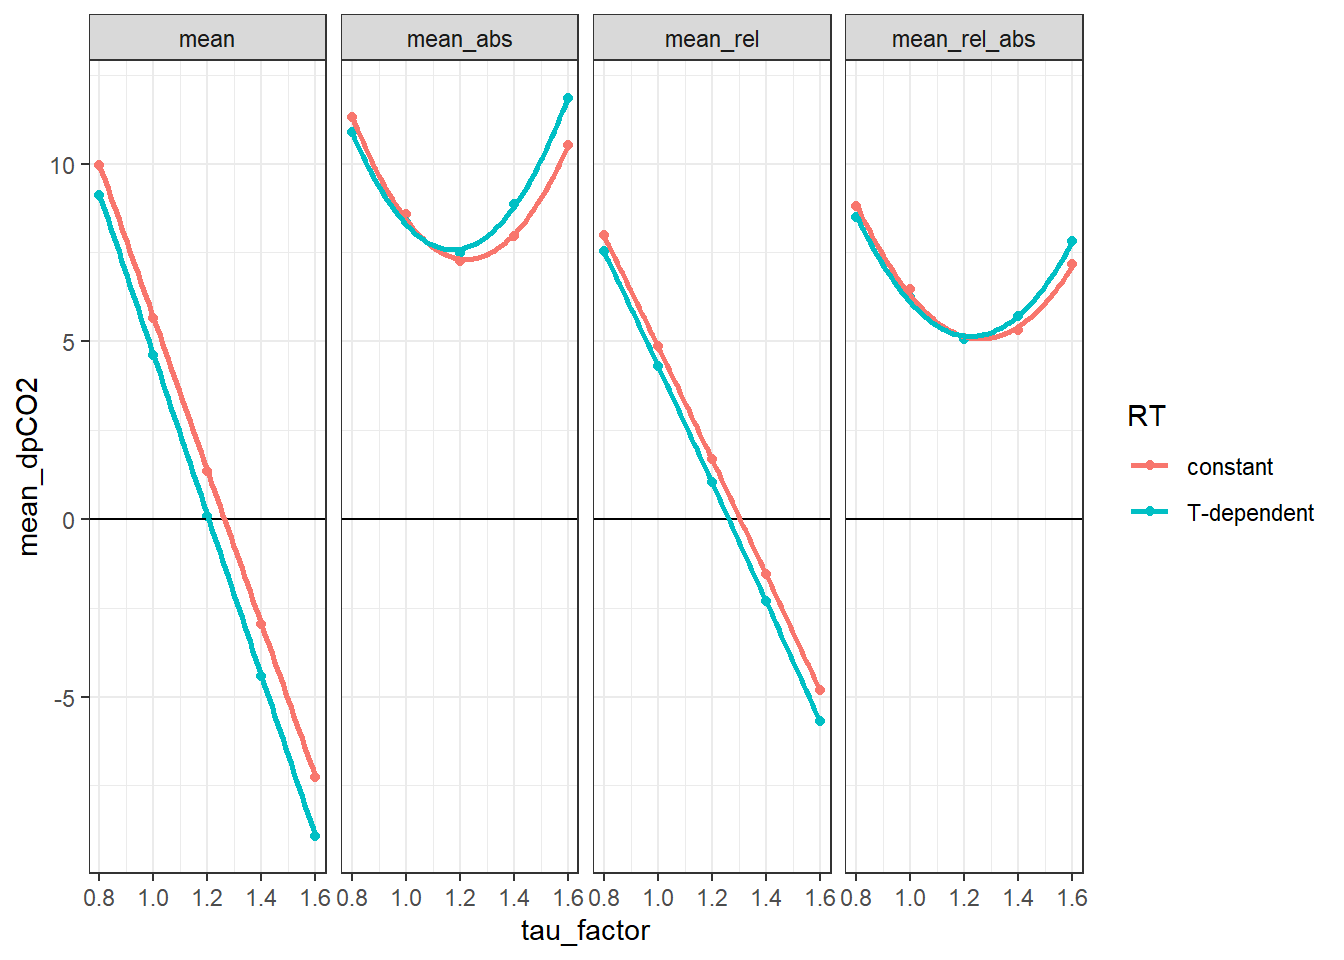
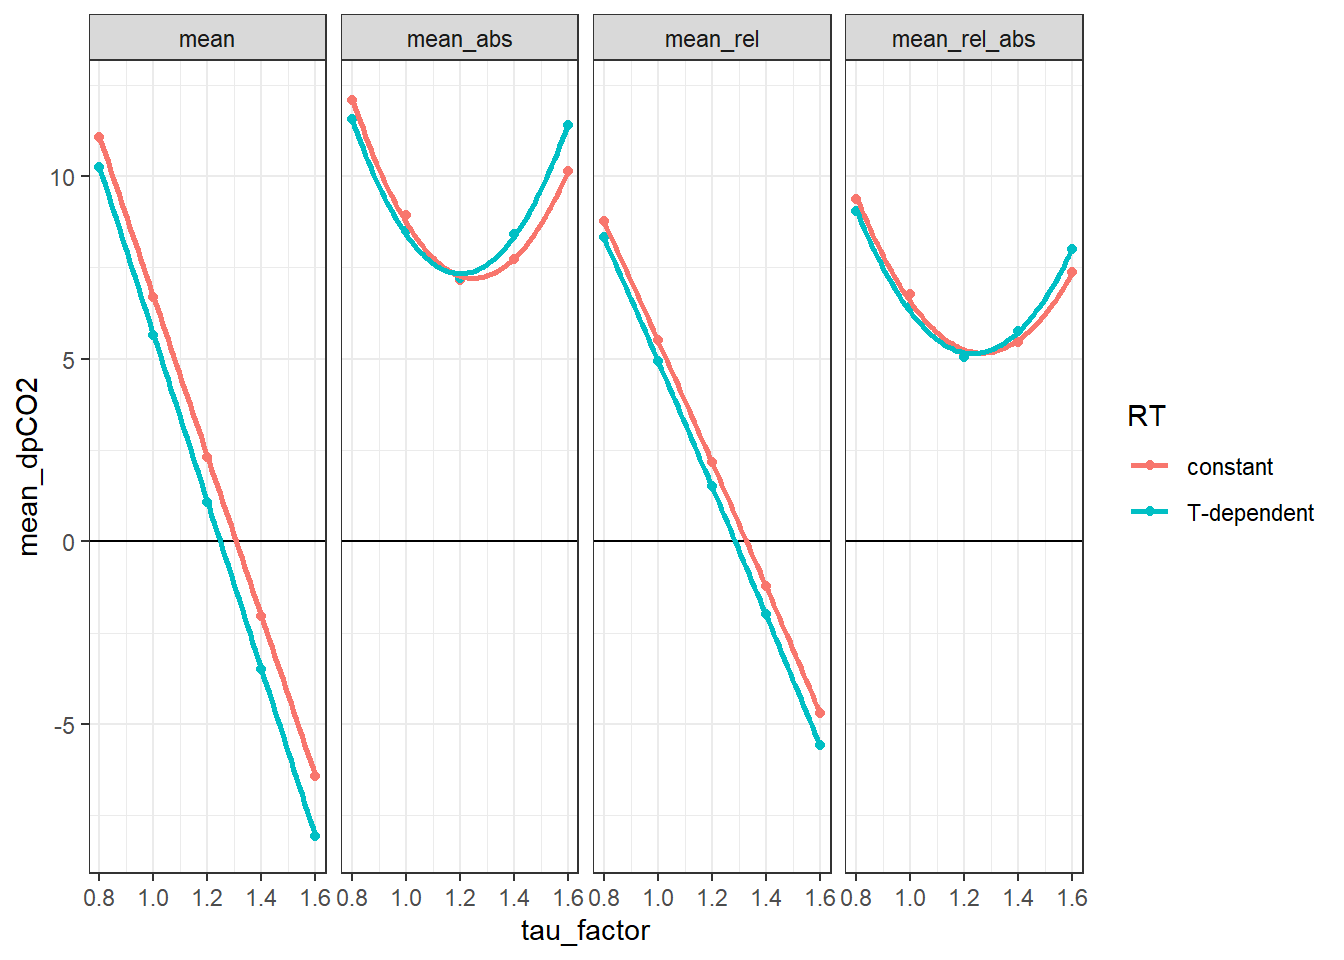
Build site.

diff --git a/docs/response_time.html b/docs/response_time.html
@@ -533,10 +533,10 @@ This reproducible <a href="http://rmarkdown.rstudio.com">R Markdown</a> analysis
 <div class="panel panel-default">
 <div class="panel-heading">
 <p class="panel-title">
-<a data-toggle="collapse" data-parent="#workflowr-checks" href="#strongRepositoryversionstrongahrefhttpsgithubcomjensdanielmuellerBloomSailtree935bc85a127f5aae01cb4eabe9675c771b96da18targetblank935bc85a"> <span class="glyphicon glyphicon-ok text-success" aria-hidden="true"></span> <strong>Repository version:</strong> <a href="https://github.com/jens-daniel-mueller/BloomSail/tree/935bc85a127f5aae01cb4eabe9675c771b96da18" target="_blank">935bc85</a> </a>
+<a data-toggle="collapse" data-parent="#workflowr-checks" href="#strongRepositoryversionstrongahrefhttpsgithubcomjensdanielmuellerBloomSailtree0fcfdbffaf645dc390f1c81f1d188bfd7504fbfbtargetblank0fcfdbfa"> <span class="glyphicon glyphicon-ok text-success" aria-hidden="true"></span> <strong>Repository version:</strong> <a href="https://github.com/jens-daniel-mueller/BloomSail/tree/0fcfdbffaf645dc390f1c81f1d188bfd7504fbfb" target="_blank">0fcfdbf</a> </a>
 </p>
 </div>
[2 lines of base64/hex data omitted]
 <div class="panel-body">
 <p>
 Great! You are using Git for version control. Tracking code development and connecting the code version to the results is critical for reproducibility. The version displayed above was the version of the Git repository at the time these results were generated. <br><br> Note that you need to be careful to ensure that all relevant files for the analysis have been committed to Git prior to generating the results (you can use <code>wflow_publish</code> or <code>wflow_git_commit</code>). workflowr only checks the R Markdown file, but you know if there are other scripts or data files that it depends on. Below is the status of the Git repository when the results were generated:
@@ -545,7 +545,6 @@ Great! You are using Git for version control. Tracking code development and conn
 Ignored files:
     Ignored:    .Rhistory
     Ignored:    .Rproj.user/
-    Ignored:    analysis/figure/
     Ignored:    data/TinaV/
     Ignored:    data/_merged_data_files/
     Ignored:    data/_summarized_data_files/
@@ -1675,15 +1674,20 @@ Offset between pCO<sub>2</sub> downcast and upcast reference value. Panels highl
 <h3>Summary metrics</h3>
 <p>In order to decide, which conditions resulted in the best response correction, all profiles were pooled and some metrics derived.</p>
 <pre class="r"><code>RT_diff_20 &lt;- RT_diff %&gt;% 
-  group_by(ID, station) %&gt;% 
-  filter(!any(is.na(d_pCO2))) %&gt;% 
-  ungroup()
-
-RT_diff_sum &lt;- RT_diff_20 %&gt;% 
   filter(dep_int &lt;= 20) %&gt;% 
+  group_by(ID, station, RT, tau_factor, p_type, correction) %&gt;% 
+  mutate(nr_na = sum(is.na(d_pCO2))) %&gt;% 
+  ungroup() %&gt;% 
+  filter(nr_na &lt;= 2)
+
+RT_diff_20 %&gt;% 
+  ggplot(aes(ID, nr_na))+
+  geom_point()</code></pre>
+<p><img src="figure/response_time.Rmd/calculate_performance_metrics-1.png" width="672" style="display: block; margin: auto;" /></p>
+<pre class="r"><code>RT_diff_sum &lt;- RT_diff_20 %&gt;% 
   group_by(RT, tau_factor, dep_int, correction, p_type) %&gt;% 
-  summarise(mean = mean(d_pCO2),
-            mean_abs = mean(abs(d_pCO2)),
+  summarise(mean = mean(d_pCO2, na.rm = TRUE),
+            mean_abs = mean(abs(d_pCO2), na.rm = TRUE),
             mean_rel = mean(d_pCO2_rel, na.rm = TRUE),
             mean_rel_abs = mean(abs(d_pCO2_rel), na.rm = TRUE)) %&gt;% 
   ungroup() %&gt;% 
